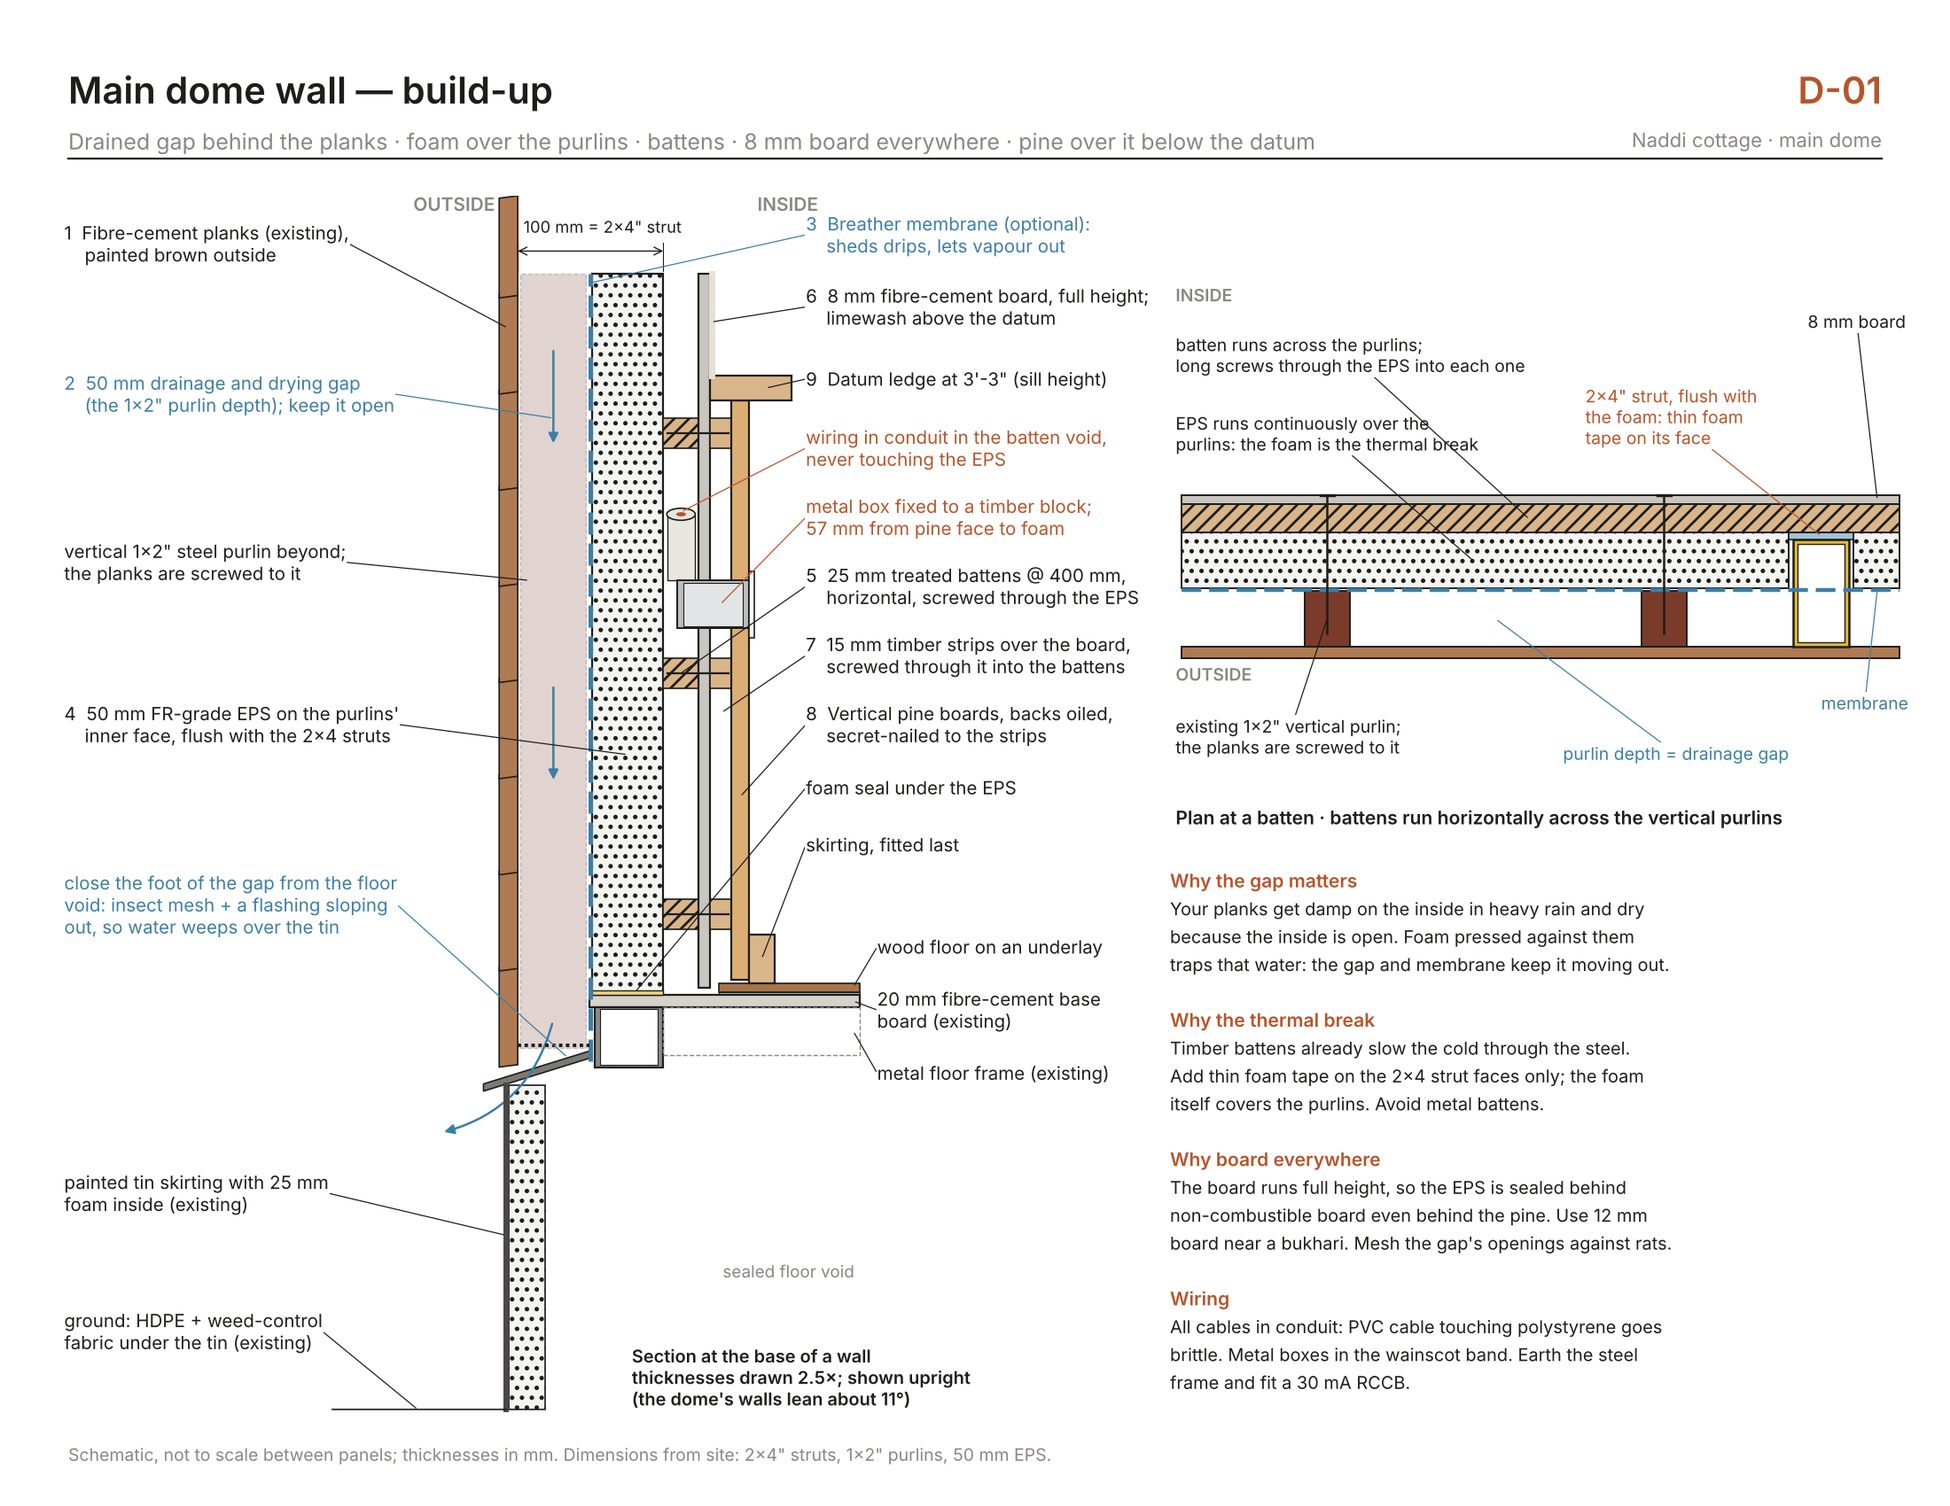
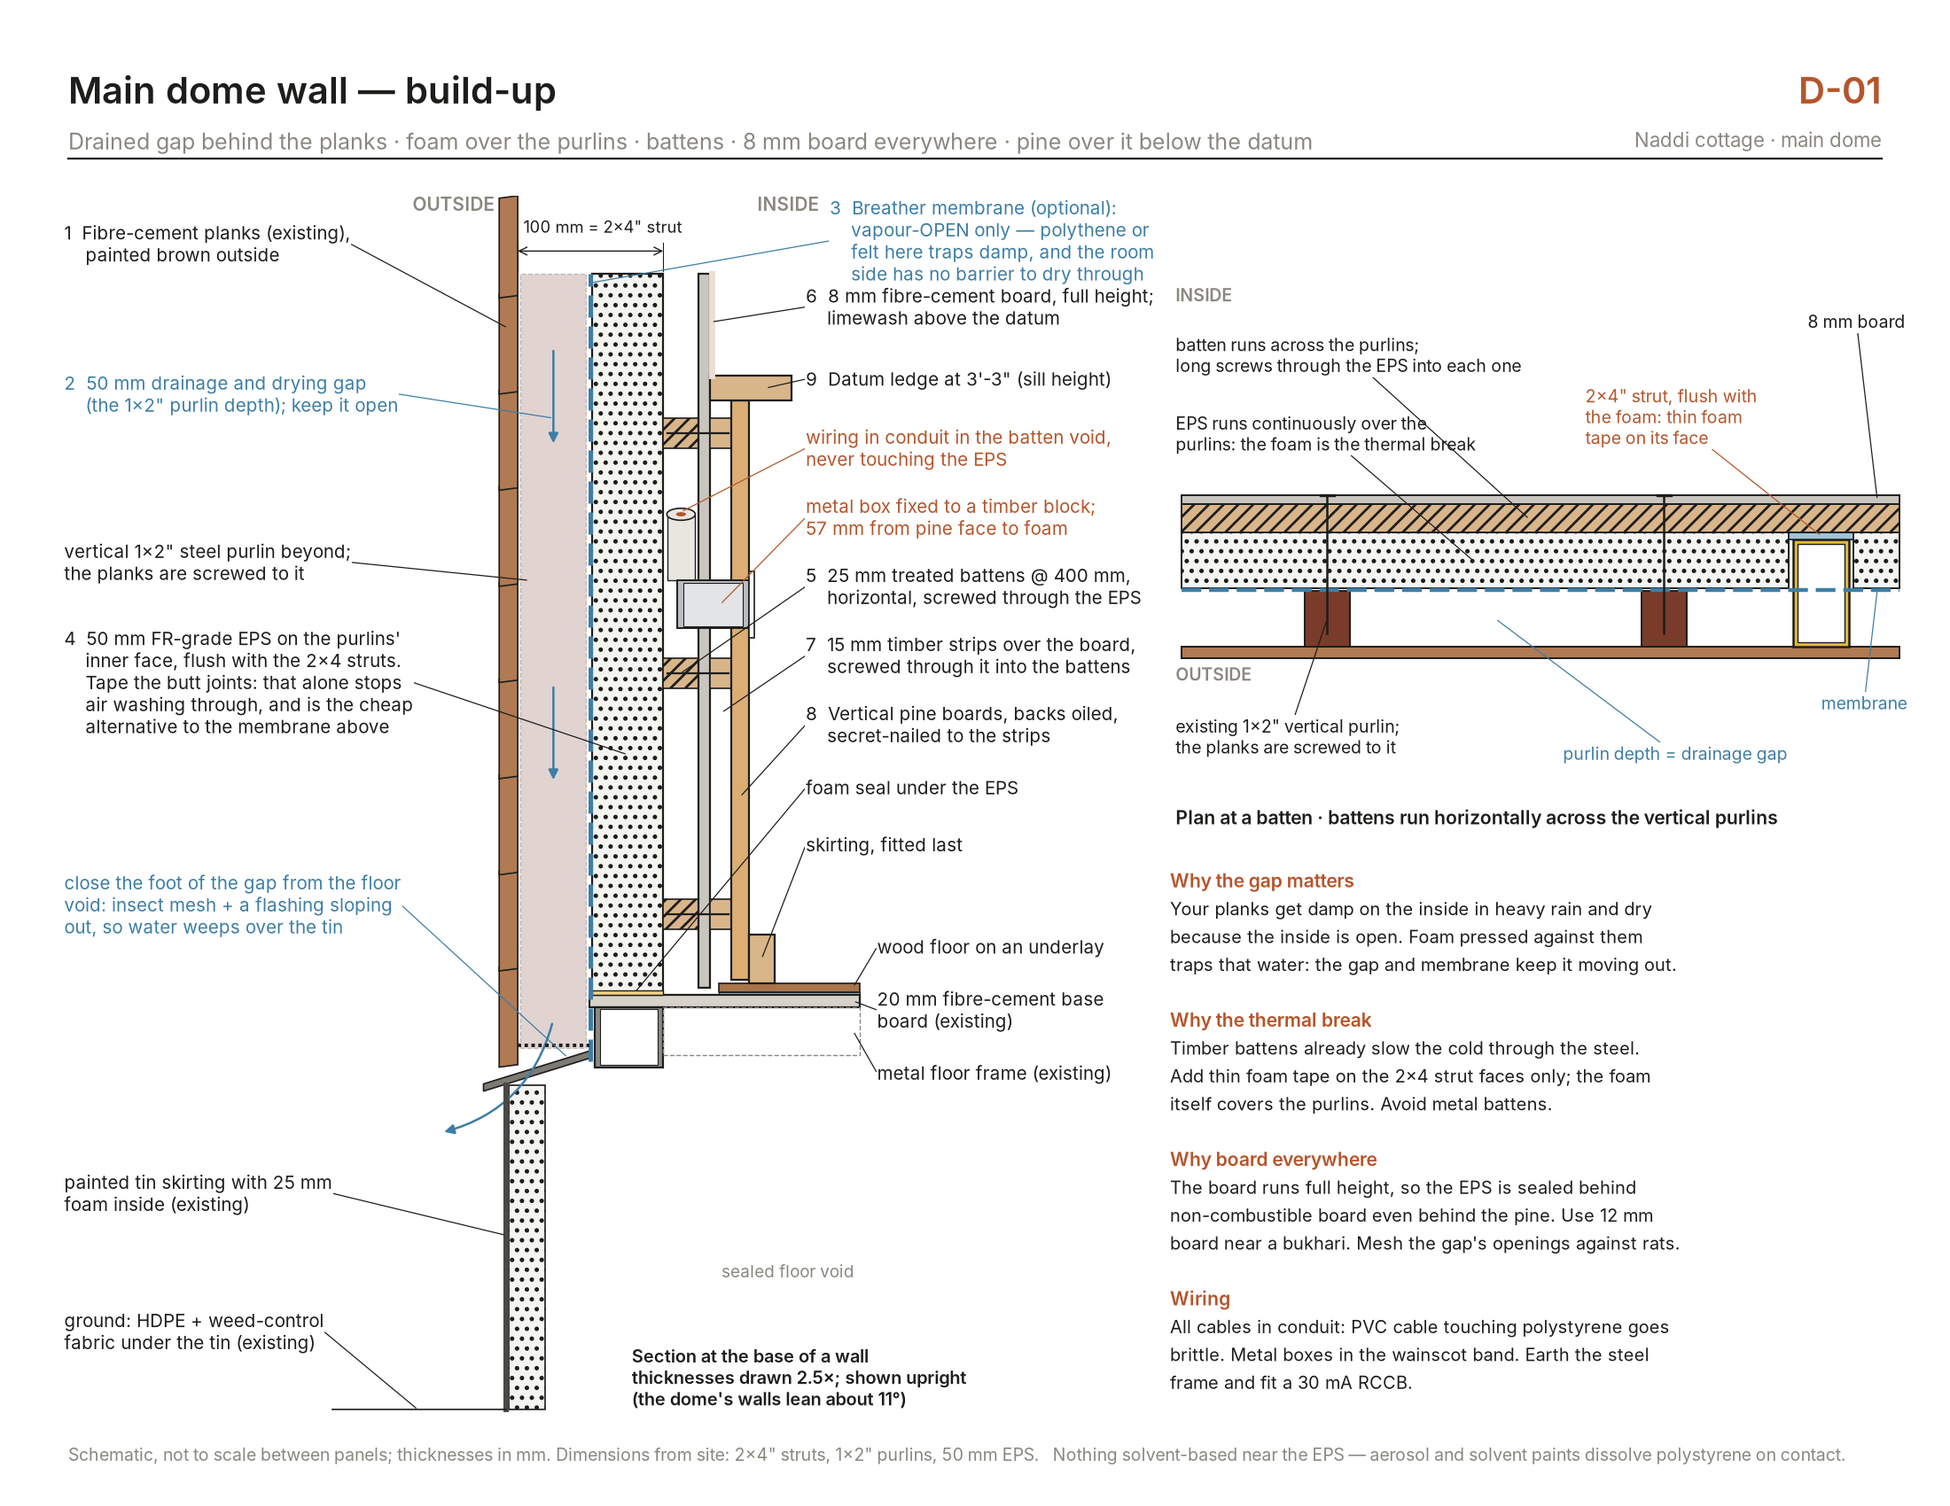
Revise the washroom floor build-up and pin down the dome wall membrane
W-06: no rubble sub-base. The loads are trivial and the HDPE already on the
ground breaks capillary rise, so sand goes straight onto compacted subgrade.
The DPM is that existing HDPE, below the sand; a second polythene over the XPS
is a slip layer keeping wet concrete out of the board joints. Sand to 50 mm,
XPS stays 50 mm, slab 100 mm M20. Layers come to about 219 mm, much as before -
what drops the floor ~150 mm is losing the raft beneath.

D-01: the breather membrane must be vapour-open. Polythene or bitumen felt
there would trap damp against the cold face, and since there is deliberately no
barrier on the room side the wall could not dry in either direction. Notes that
taping the EPS butt joints is the cheap alternative, and warns that solvent and
aerosol paints dissolve polystyrene.

diff --git a/code/floor_layers.py b/code/floor_layers.py
@@ -1,4 +1,10 @@
-"""Washroom floor make-up: stepped oblique cutaway, layer by layer (W-06)."""
+"""Washroom floor make-up: stepped oblique cutaway, layer by layer (W-06).
+
+Revised Oct 2026: no rubble sub-base. The loads are trivial and the HDPE already
+on the ground breaks capillary rise, so sand goes straight onto compacted subgrade.
+The DPM is the existing HDPE BELOW the sand; a second polythene above the XPS is a
+slip layer that keeps wet concrete out of the board joints.
+"""
 import math, random
 import matplotlib
 matplotlib.use("Agg")
@@ -21,7 +27,7 @@ def P(x, y, z):
 
 fig = plt.figure(figsize=(11, 8.5), dpi=200)
 fig.text(0.035, 0.955, "Washroom floor — make-up, layer by layer", fontsize=15, fontweight="semibold", color=INK, va="top")
-fig.text(0.035, 0.915, "Stone fill and an insulated concrete slab inside a stone plinth wall · the XPS lies under the slab",
+fig.text(0.035, 0.915, "Sand on compacted subgrade — no rubble fill · insulated slab inside a stone plinth wall · about 8½ in all told",
          fontsize=9, color=GREY, va="top")
 fig.text(0.965, 0.955, "W-06", fontsize=15, fontweight="semibold", color=ACCENT, va="top", ha="right")
 fig.text(0.965, 0.915, "Naddi cottage · washroom", fontsize=8, color=GREY, va="top", ha="right")
@@ -35,16 +41,17 @@ ax.set_ylim(-560, 1260)
 ax.set_aspect("equal")
 ax.axis("off")
 
-# key, z0, z1 (real mm; 0 = top of compacted rubble), right end x, start x, colour, hatch
+# key, z0, z1 (real mm; 0 = top of compacted subgrade), right end x, start x, colour, hatch
 LAYERS = [
-    ("fill", -120, 0, 1600, 0, "#bdb6aa", None),
-    ("sand", 0, 40, 1420, 0, "#ecdfc2", "...."),
-    ("dpm", 40, 46, 1340, 0, "#4f8fc0", None),
-    ("xps", 46, 96, 1180, 30, "#f2b8a8", None),
-    ("slab", 96, 186, 990, 30, "#c9c7c1", None),
-    ("wp", 186, 192, 900, 0, "#5aa3a0", None),
-    ("bed", 192, 199, 790, 0, "#e3e0d9", None),
-    ("tile", 199, 213, 660, 0, "#6d6f70", None),
+    ("sub", -120, 0, 1600, 0, "#b4ad9f", "////"),
+    ("hdpe", 0, 8, 1490, 0, "#2f7f5f", None),
+    ("sand", 8, 58, 1400, 0, "#ecdfc2", "...."),
+    ("xps", 58, 108, 1180, 30, "#f2b8a8", None),
+    ("dpm", 108, 116, 1070, 0, "#4f8fc0", None),
+    ("slab", 116, 216, 990, 30, "#c9c7c1", None),
+    ("wp", 216, 222, 900, 0, "#5aa3a0", None),
+    ("bed", 222, 229, 790, 0, "#e3e0d9", None),
+    ("tile", 229, 243, 660, 0, "#6d6f70", None),
 ]
 K = {l[0]: l for l in LAYERS}
 random.seed(4)
@@ -67,16 +74,19 @@ for i, (key, z0, z1, x1, x0, col, hatch) in enumerate(LAYERS):
          hatch=hatch, z=3 + i)
     face([P(x1, 0, z0), P(x1, DEPTH, z0), P(x1, DEPTH, z1), P(x1, 0, z1)], shade(col, 0.82), hatch=hatch, z=3 + i)
 
-# rubble stones
-for _ in range(55):
-    cx, cz = random.uniform(30, 1580), random.uniform(-105, -15)
-    r = random.uniform(16, 34)
+# compacted subgrade: speckled earth, a few stones, no rubble raft
+for _ in range(40):
+    cx, cz = random.uniform(30, 1580), random.uniform(-108, -12)
+    r = random.uniform(7, 15)
     pts = []
-    for k in range(7):
-        a = 2 * math.pi * k / 7 + random.uniform(-0.3, 0.3)
-        rr = r * random.uniform(0.65, 1.0)
+    for k in range(6):
+        a = 2 * math.pi * k / 6 + random.uniform(-0.3, 0.3)
+        rr = r * random.uniform(0.6, 1.0)
         pts.append(P(cx + rr * math.cos(a), 0, cz + rr * math.sin(a) / ZS * 0.9))
-    face(pts, random.choice(["#9d968b", "#8c867c", "#a8a296", "#7f7a72"]), ec="#5d5a55", lw=0.4, z=4)
+    face(pts, random.choice(["#9d968b", "#8c867c", "#a8a296"]), ec="#6d685f", lw=0.3, z=4)
+for _ in range(220):
+    ax.plot(*P(random.uniform(30, 1590), 0, random.uniform(-112, -8)), marker=".", ms=1.1,
+            color="#6f6a61", zorder=5)
 xs = list(range(-330, 1700, 30))
 gl = [P(x, 0, -128 - 6 * math.sin(x / 60)) for x in xs]
 ax.plot([p[0] for p in gl], [p[1] for p in gl], color=INK, lw=0.6, zorder=20)
@@ -84,21 +94,21 @@ ax.text(*P(1500, 0, -150), "firm ground below", fontsize=7, color=GREY, va="top"
 
 # slab aggregate + mesh
 for _ in range(150):
-    x, z = random.uniform(45, 980), random.uniform(100, 182)
+    x, z = random.uniform(45, 980), random.uniform(122, 212)
     ax.plot(*P(x, 0, z), marker=(3, 0, random.uniform(0, 120)), ms=1.5, color="#8f8c86", zorder=9)
 for x in range(70, 975, 65):
-    ax.add_patch(plt.Circle(P(x, 0, 130), 5, fc="#5d5a55", ec="none", zorder=10))
-ax.plot([P(50, 0, 130)[0], P(975, 0, 130)[0]], [P(50, 0, 130)[1]] * 2, color="#5d5a55", lw=0.8, zorder=10)
+    ax.add_patch(plt.Circle(P(x, 0, 162), 5, fc="#5d5a55", ec="none", zorder=10))
+ax.plot([P(50, 0, 162)[0], P(975, 0, 162)[0]], [P(50, 0, 162)[1]] * 2, color="#5d5a55", lw=0.8, zorder=10)
 for x in range(915, 990, 35):
-    ax.plot(*zip(P(x, 30, 186), P(x, DEPTH - 30, 186)), color="#8a877f", lw=0.5, zorder=11)
+    ax.plot(*zip(P(x, 30, 216), P(x, DEPTH - 30, 216)), color="#8a877f", lw=0.5, zorder=11)
 # tile joints
 for x in range(180, 660, 150):
-    ax.plot(*zip(P(x, 0, 213), P(x, DEPTH, 213)), color="#4a4c4d", lw=0.6, zorder=13)
+    ax.plot(*zip(P(x, 0, 243), P(x, DEPTH, 243)), color="#4a4c4d", lw=0.6, zorder=13)
 for y in (175, 350, 525):
-    ax.plot(*zip(P(30, y, 213), P(660, y, 213)), color="#4a4c4d", lw=0.6, zorder=13)
+    ax.plot(*zip(P(30, y, 243), P(660, y, 243)), color="#4a4c4d", lw=0.6, zorder=13)
 # XPS board joint on its step
-ax.plot(*zip(P(1085, 0, 96), P(1085, DEPTH, 96)), color="#c98b7a", lw=0.8, zorder=8)
-ax.plot(*zip(P(990, 330, 96), P(1180, 330, 96)), color="#c98b7a", lw=0.8, zorder=8)
+ax.plot(*zip(P(1085, 0, 108), P(1085, DEPTH, 108)), color="#c98b7a", lw=0.8, zorder=8)
+ax.plot(*zip(P(990, 330, 108), P(1180, 330, 108)), color="#c98b7a", lw=0.8, zorder=8)
 
 # plinth wall (left), cut
 WX0 = -280
@@ -116,12 +126,12 @@ for zc in range(-100, 300, 52):
                    P(x1, 0, zc + h), P(x0, 0, zc + h + random.uniform(-3, 3))]
             face(pts, random.choice(["#968f84", "#a29b90", "#8b857b", "#9c9589"]), ec="#5d5a55", lw=0.4, z=3)
         xc += w
-ax.plot(*zip(P(-1, 0, 40), P(-1, 0, 186)), color="#4f8fc0", lw=2.2, zorder=12)          # polythene up the wall
-face([P(3, 0, 46), P(30, 0, 46), P(30, 0, 186), P(3, 0, 186)], "#f2b8a8", z=7.5)          # XPS edge strip
-face([P(-7, 0, 186), P(-1, 0, 186), P(-1, 0, 300), P(-7, 0, 300)], "#5aa3a0", z=12)     # waterproofing upturn
+ax.plot(*zip(P(-1, 0, 0), P(-1, 0, 116)), color="#2f7f5f", lw=2.2, zorder=12)          # polythene up the wall
+face([P(3, 0, 58), P(30, 0, 58), P(30, 0, 216), P(3, 0, 216)], "#f2b8a8", z=7.5)          # XPS edge strip
+face([P(-7, 0, 216), P(-1, 0, 216), P(-1, 0, 300), P(-7, 0, 300)], "#5aa3a0", z=12)     # waterproofing upturn
 
 # fall arrow on the tiles
-a0, a1 = P(600, 470, 213), P(110, 470, 213)
+a0, a1 = P(600, 470, 243), P(110, 470, 243)
 ax.add_patch(FancyArrowPatch(a0, a1, arrowstyle="-|>", mutation_scale=10, color="#9fd0f0", lw=1.4, zorder=30))
 ax.text(a1[0] + 20, a1[1] - 18, "falls to the drain", fontsize=6.8, color="#e4f3fd", va="top", zorder=30)
 
@@ -143,13 +153,14 @@ def lab(xy, title, sub, ty, color=INK, title_color=None):
     ax.text(TX, ty - 6, sub, fontsize=7.1, color=GREY if color == INK else color, va="top", zorder=40, linespacing=1.3)
 
 
-lab(topstrip("tile", 0.6), "8  Finish", "anti-skid tile or slate\nin C2 adhesive · 15–25 mm", 1130)
-lab(topstrip("wp", 0.55), "7  Waterproofing", "2-coat polymer cement;\nup 300 mm on the walls", 975, color=TEAL)
-lab(topstrip("slab", 0.5), "6  Concrete slab", "75–100 mm M15–M20, mesh\non spacers, laid to falls", 820)
-lab(topstrip("xps", 0.5), "5  XPS insulation  ← here", "50 mm boards, tight,\njoints taped", 665, color=ACCENT)
-lab(topstrip("dpm", 0.5), "4  Polythene", "200 µm damp-proof sheet,\nlapped up the plinth", 510, color=WATER)
-lab(topstrip("sand", 0.5), "3  Sand blinding", "25–50 mm, protects\nthe polythene", 355)
-lab(P(1450, 0, -60), "2  Rubble fill", "compacted in 150 mm layers;\npipes laid and tested first", 200)
+lab(topstrip("tile", 0.6), "9  Finish", "anti-skid tile or slate\nin C2 adhesive · 15–25 mm", 1140)
+lab(topstrip("wp", 0.55), "8  Waterproofing", "2-coat polymer cement;\nup 300 mm on the walls", 1007, color=TEAL)
+lab(topstrip("slab", 0.5), "7  Concrete slab", "100 mm M20, mesh on\nspacers, laid to falls", 874)
+lab(topstrip("dpm", 0.5), "6  Polythene slip layer", "200 µm over the boards: keeps\nwet concrete out of the joints", 741, color=WATER)
+lab(topstrip("xps", 0.5), "5  XPS insulation  ← here", "50 mm boards, butt-jointed\ntight, joints taped", 608, color=ACCENT)
+lab(topstrip("sand", 0.5), "4  Sharp sand", "50 mm, screeded dead level —\nnot fine river sand", 475)
+lab(topstrip("hdpe", 0.5), "3  HDPE + geofabric", "already on the ground;\nthis is the damp-proof layer", 342, color="#2f7f5f")
+lab(P(1450, 0, -60), "2  Compacted subgrade", "no rubble raft needed. Ram it\nhard first; if it is recent fill\nover 150 mm deep, put stone\nback and compact in layers", 185)
 
 # left callouts
 LXL = -780
@@ -161,15 +172,15 @@ def llab(xy, txt, ty, color):
 
 
 llab(P(-4, 0, 270), "waterproofing turned\nup the wall", 830, TEAL)
-llab(P(16, 0, 120), "5  25 mm XPS strip on edge\n    round the slab: it never\n    touches the cold stone", 640, ACCENT)
-llab(P(-1, 0, 70), "4  polythene turned up\n    the inner face", 420, WATER)
+llab(P(16, 0, 140), "5  25 mm XPS strip on edge\n    round the slab: it never\n    touches the cold stone", 640, ACCENT)
+llab(P(-1, 0, 60), "3  HDPE lapped and turned\n    up the inner face", 420, "#2f7f5f")
 llab(P(-150, 0, -40), "1  Stone plinth wall,\n    pointed in cement,\n    down to firm ground;\n    anti-termite treatment", 120, INK)
 
 # finished floor level and the height the layers take
-ax.plot(*zip(P(WX0 + 10, 0, 213), P(-12, 0, 213)), color="white", lw=1.0, ls=(0, (4, 2)), zorder=13)
-llab(P(-150, 0, 213), "finished floor level =\nmain-room threshold", 1010, GREY)
+ax.plot(*zip(P(WX0 + 10, 0, 243), P(-12, 0, 243)), color="white", lw=1.0, ls=(0, (4, 2)), zorder=13)
+llab(P(-150, 0, 243), "finished floor level =\nmain-room threshold", 1010, GREY)
 hx = P(1600, 0, 0)[0] + 60
-ax.text(*P(250, 0, -175), "Layers 3–8 add about 165–225 mm on top of the rubble, so stop the fill that far below the threshold.",
+ax.text(*P(250, 0, -175), "Layers 3–9 add about 219 mm (8\u00bd in) above the compacted subgrade — a little over half the old make-up.",
         fontsize=7.4, color=INK, va="top", zorder=40)
 fig.savefig(OUT, dpi=200, facecolor="white")
 print("ok")

diff --git a/docs/washroom_design.md b/docs/washroom_design.md
@@ -146,8 +146,8 @@ Build bottom-up and test the waterproofing before any finish goes on. Naddi sits
 
 1. **Close the perimeter.** Build a stone or brick plinth wall under the back and side floor beams, down to firm ground, so the fill is contained and rain and rodents stay out. Anti-termite treatment and pipe sleeves go in now.
 2. **Lay the drainage before filling.** 110 mm soil pipe from the WC; 75 mm from the dry-zone floor trap and the shower's linear drain; steady fall to the septic or sewer. Water-test every joint before burying.
-3. **Fill.** Compacted rubble in 150 mm layers, sand blinding, then a 200 µm polythene damp-proof membrane lapped up the plinth.
-4. **Insulate under the slab.** 50 mm XPS laid on the membrane, with a 25 mm XPS strip standing up around the slab edge. You get a foam-insulated floor without a hollow void under it.
+3. **Prepare the ground.** *Revised Oct 2026: no rubble raft.* The loads here are trivial and the HDPE already on the ground breaks capillary rise, so the rubble sub-base does no work worth its 6 inches of height. Ram the subgrade hard; if any of it is recent fill more than 150 mm deep, put stone back there and compact in layers. Lap the existing HDPE up the plinth — that is the damp-proof layer. Then 50 mm of sharp sand, screeded dead level (not fine river sand, which flows under the boards).
+4. **Insulate under the slab.** 50 mm XPS straight onto the sand, butt-jointed tight, with a 25 mm XPS strip standing up around the slab edge. A second 200 µm polythene goes **over** the boards as a slip layer, so wet concrete cannot run into the joints.
 5. **Slab.** 75–100 mm PCC (M15–M20) with mesh, laid to falls: about 1:80 to the floor trap in the dry zone, 1:50–1:60 to the shower drain. Keep the threshold level with the main room. Then build the two ledges (and Palette 3's partition) in 4½" brick on the slab, leaving chases for pipes and a recess for the cistern.
 6. **Walls.**
    1. Wire-brush the iron purlins and coat them with zinc-rich primer; they will be sealed in for good.
@@ -160,7 +160,7 @@ Build bottom-up and test the waterproofing before any finish goes on. Naddi sits
 10. **Electrical.** Splash-rated fittings in the shower zone, RCD protection, and a dedicated circuit for the geyser.
 11. **Hot water.** A 15 L storage geyser fits high on the inside of the front wall, above the door portal and out of the spray; a 25 L unit is tight there and may need to sit on the main-room side of the partition. If you want lower running costs, add a solar evacuated-tube heater outside with the geyser as backup; HIMURJA has run subsidies for these, so check the current scheme. Lag every exposed pipe against winter frost.
 
-The floor from steps 1–8, layer by layer. The XPS lies on the polythene, directly under the slab, with a 25 mm strip standing on edge round the slab so the concrete never touches the cold stone.
+The floor from steps 1–8, layer by layer. The XPS lies on sand over the existing HDPE, directly under the slab, with a 25 mm strip standing on edge round the slab so the concrete never touches the cold stone. Layers 3–9 come to about 219 mm (8½ in); dropping the rubble raft is what takes the finished floor down roughly 150 mm (6 in).
 
 &#91;image: Washroom floor make-up, layer by layer\]
 

diff --git a/CLAUDE.md b/CLAUDE.md
@@ -49,7 +49,8 @@ This folder continues a claude.ai conversation (Oct 26–30, 2026). Everything d
 **Washroom** (docs/washroom_design.md, drawings A-01 to A-05, W-06, renders R1–R7)
 - Layout A: dry zone at the front (WC left, vanity right, on 2'-9" service ledges), shower at the back under the ridge, raked glass screen; vertical door portal.
 - Palettes: 1 Slate & Lime (recommended), 2 Bright & Panelised, 3 Kota & Whitewash (low cost).
-- Floor: stone plinth wall to firm ground; rubble fill; sand blinding; 200 µm polythene; 50 mm XPS + 25 mm XPS edge strip; 75–100 mm M15–M20 slab with mesh, to falls (1:80 dry, 1:50–60 shower); 2-coat polymer cement waterproofing; tile or slate in C2 adhesive.
+- Floor (revised Oct 2026, drawing W-06): stone plinth wall to firm ground; **compacted subgrade, no rubble raft**; existing HDPE + geofabric lapped up the plinth as the DPM; 50 mm sharp sand screeded level; 50 mm XPS + 25 mm XPS edge strip; 200 µm polythene slip layer over the boards; 100 mm M20 slab with mesh, to falls (1:80 dry, 1:50–60 shower); 2-coat polymer cement waterproofing; tile or slate in C2 adhesive. About 219 mm (8½") in all; losing the rubble raft drops the finished floor ~150 mm (6"), to roughly 8–10" above ground. Gravity drainage to the biodigester still has 11–21" of fall — ample.
+- Dome wall membrane: the breather membrane at layer 3 of D-01 must be **vapour-open** (spunbond PP roofing underlay). Polythene or bitumen felt there would trap damp, since there is deliberately no barrier on the room side either. Taping the EPS butt joints is the cheap alternative and does most of the work. Nothing solvent-based near the EPS — aerosol and solvent paints dissolve polystyrene.
 
 **Wastewater** (drawings S-01 to S-03)
 - Toilet only → 500 L biodigester (4 × 4 × 1.15 ft, rated for 5; inlet 8" below the upper terrace) → test chamber T → junction J → reed bed → outlet chamber → soak trench.
